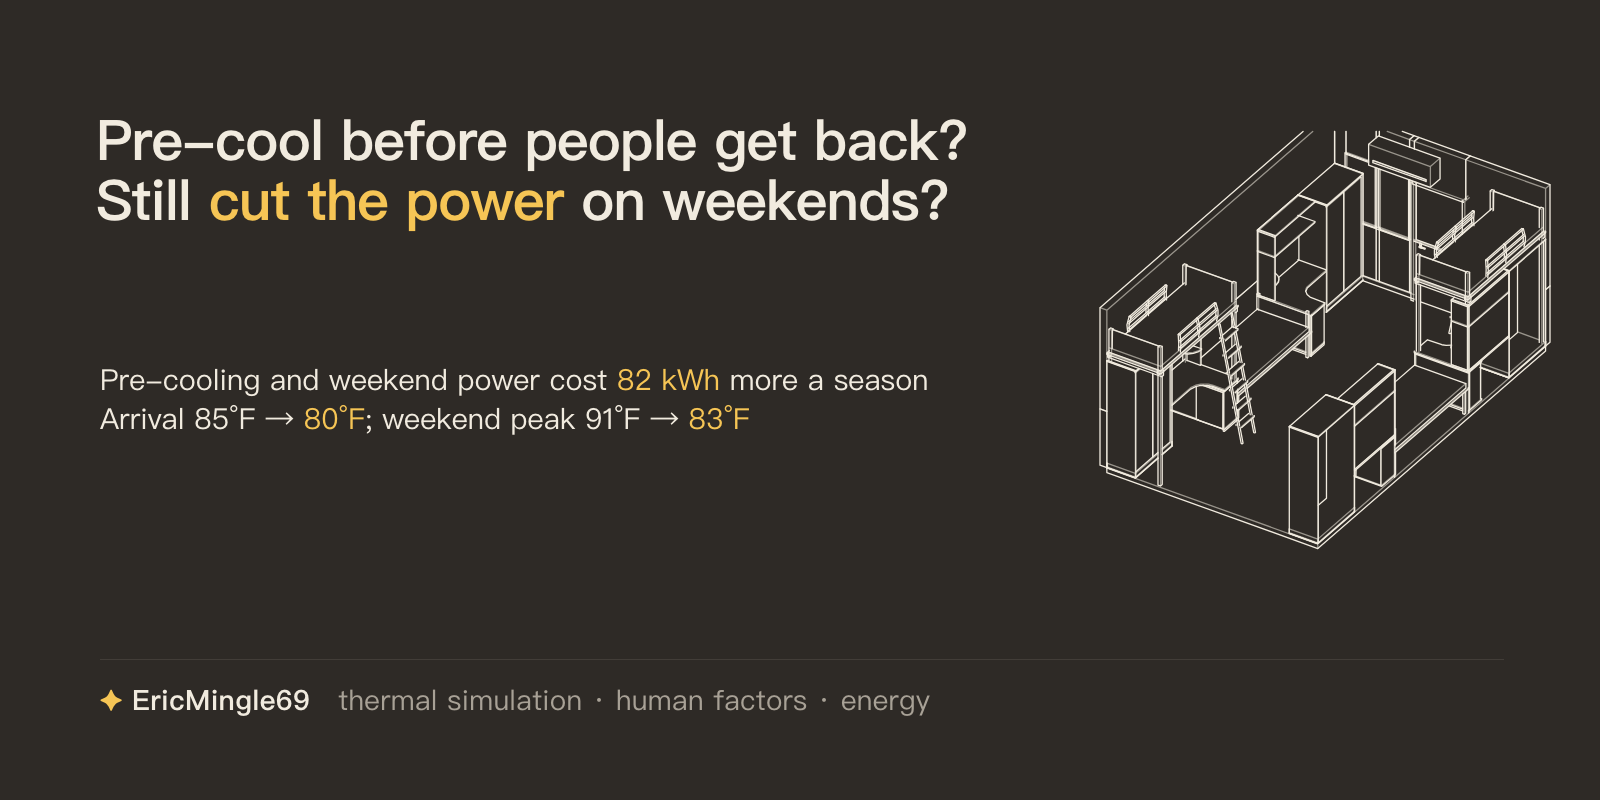
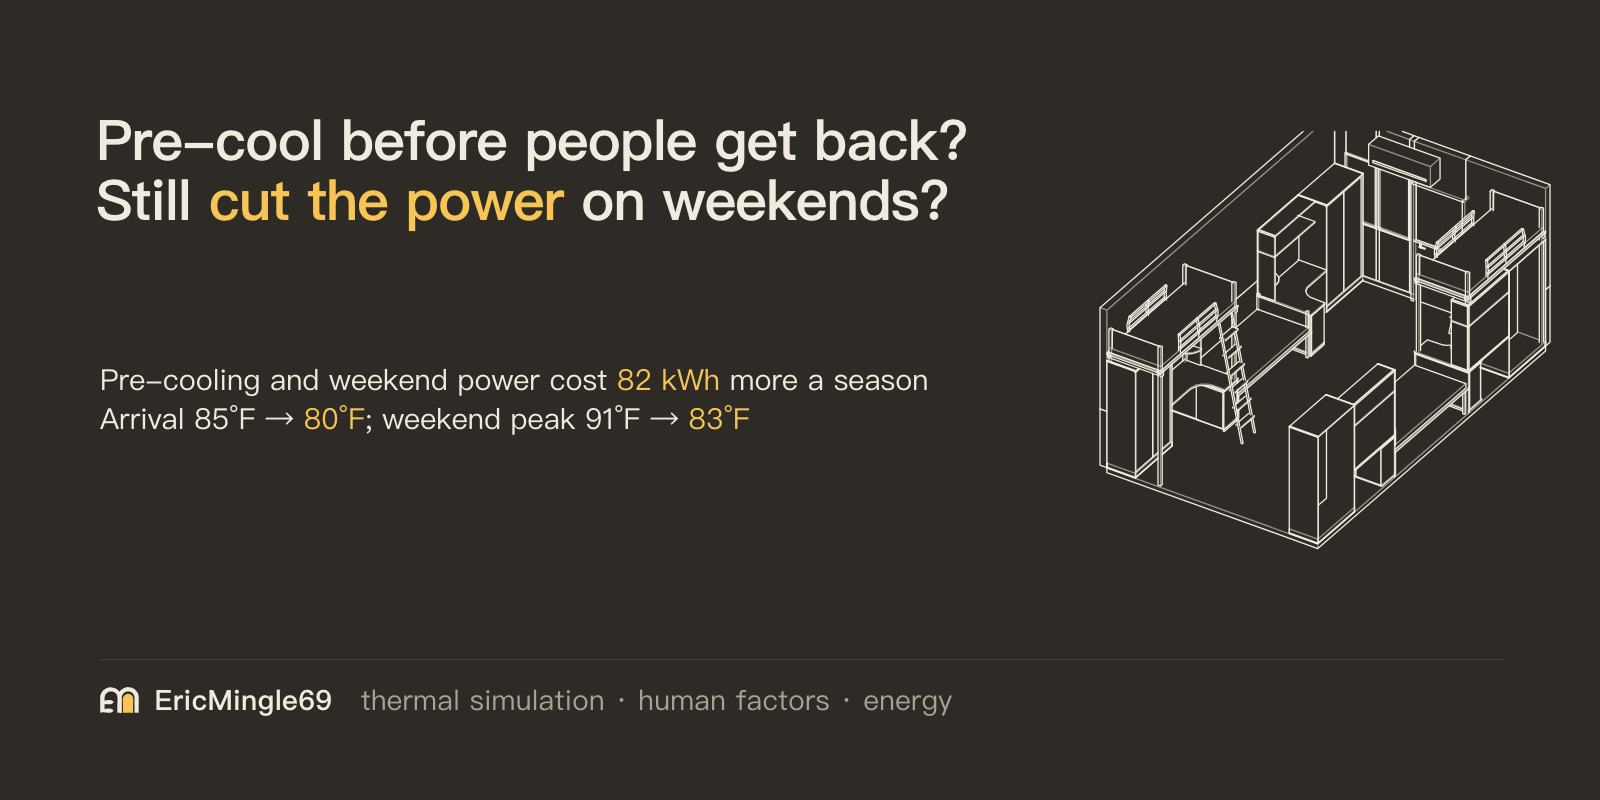
Use the EM mark in the cover and footer signature

Changed region(s): [[0.0625, 0.8438, 0.5938, 0.9062]]

diff --git a/README.en.md b/README.en.md
@@ -173,5 +173,5 @@ The full tables (orientation and roof/corner comparisons, energy by rule, recove
 
 ---
 
-Maintained by **✦ EricMingle69** · [Ming-Sir-69](https://github.com/Ming-Sir-69)  
+Maintained by <picture><source media="(prefers-color-scheme: dark)" srcset="readme-assets/em-logo-dark.svg"><img src="readme-assets/em-logo-light.svg" alt="EM" height="13"></picture> <b>EricMingle69</b> · <a href="https://github.com/Ming-Sir-69">Ming-Sir-69</a><br>
 Code is released under the [MIT License](LICENSE); text and figures under [CC BY 4.0](https://creativecommons.org/licenses/by/4.0/); weather data keep their original licences.

diff --git a/README.md b/README.md
@@ -513,5 +513,5 @@ uv run --frozen python render_figures.py --report
 
 ---
 
-文档维护：**✦ EricMingle69** · [Ming-Sir-69](https://github.com/Ming-Sir-69)  
+文档维护：<picture><source media="(prefers-color-scheme: dark)" srcset="readme-assets/em-logo-dark.svg"><img src="readme-assets/em-logo-light.svg" alt="EM" height="13"></picture> <b>EricMingle69</b> · <a href="https://github.com/Ming-Sir-69">Ming-Sir-69</a><br>
 代码以 [MIT 许可](LICENSE) 发布；文字与图以 [CC BY 4.0](https://creativecommons.org/licenses/by/4.0/deed.zh-hans) 发布，转载请注明出处；气象数据沿用原始来源的许可。
